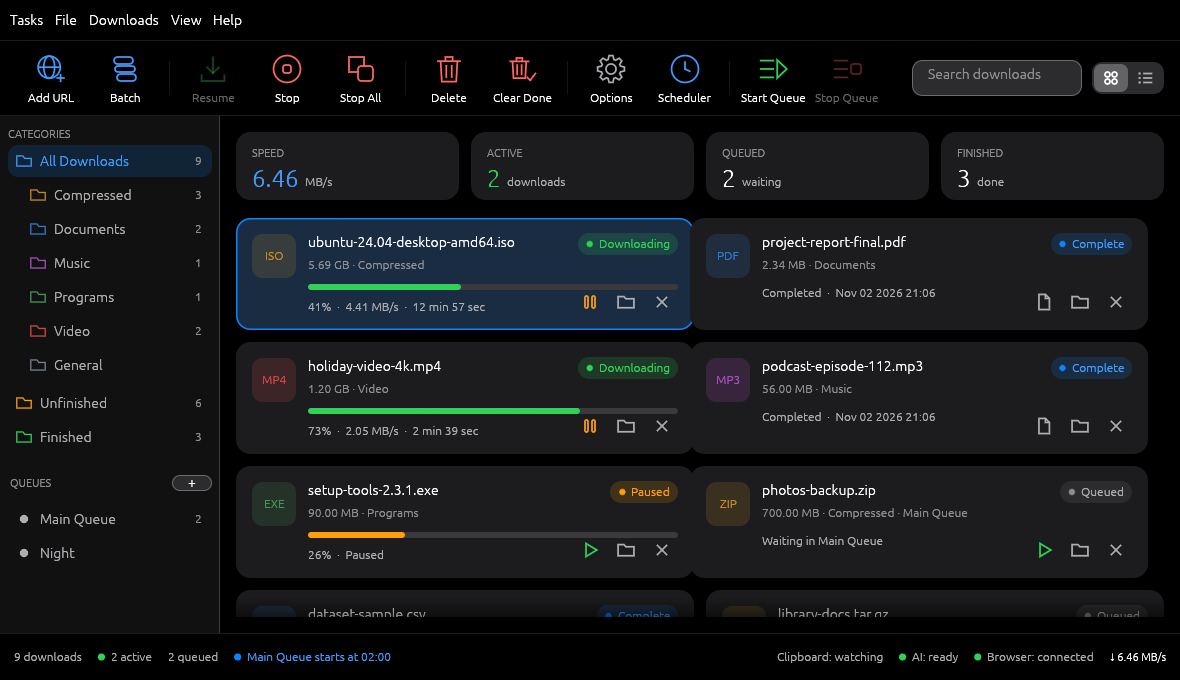
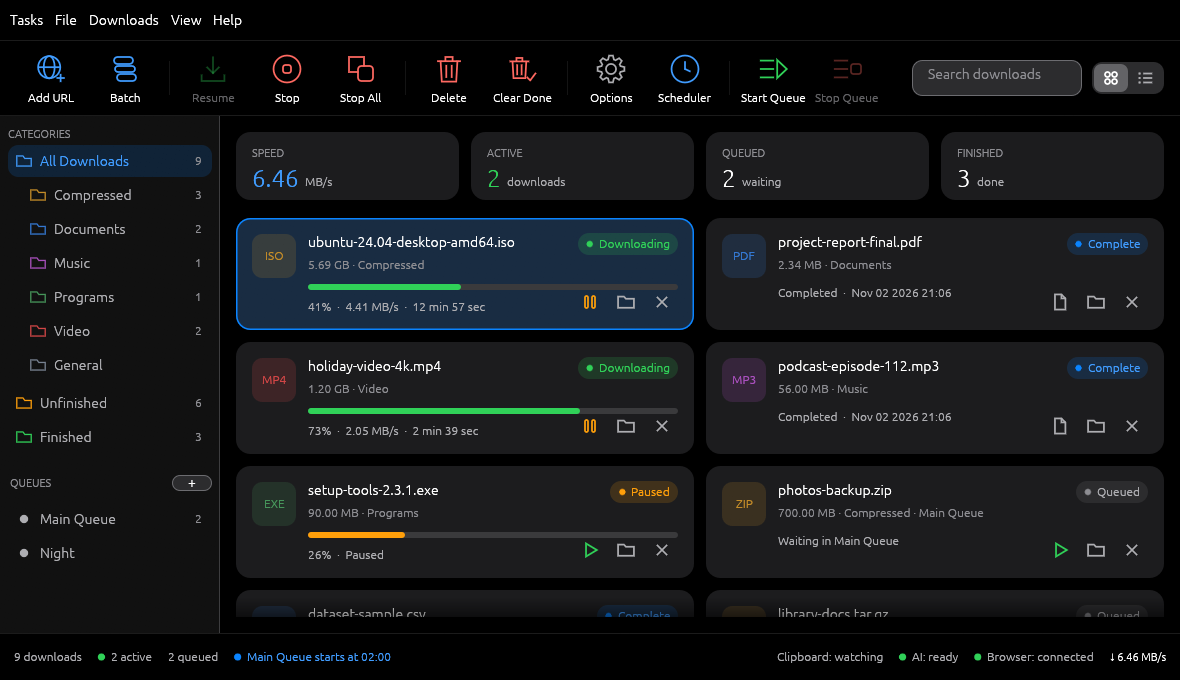
fix(ui): cards in a row had no gap between them
scope_builder also advanced the grid's layout cursor, so the next card started inside the last
one. The in-card progress bar and spinner now use new_child. A test paints the cards and checks
the gap between neighbours and between rows.

Changed region(s): [[0.5797, 0.3088, 0.8237, 0.8647], [0.8847, 0.3088, 1.0, 0.8647]]

diff --git a/source/src/app/cards.rs b/source/src/app/cards.rs
@@ -143,7 +143,9 @@ impl App {
         if with_bar {
             let bar = Rect::from_min_size(egui::pos2(left, rect.top() + PAD + 50.0), Vec2::new(right - left, 6.0));
             let color = if st == Status::Downloading { pal.green_ink } else { pal.orange_ink };
-            ui.scope_builder(egui::UiBuilder::new().max_rect(bar), |ui| capsule_bar(ui, egui::Id::unique(("card_bar", id)), item.progress(), color, 6.0, None));
+            // new_child, not scope_builder: a scope would also advance the grid's layout cursor.
+            let mut child = ui.new_child(egui::UiBuilder::new().max_rect(bar));
+            capsule_bar(&mut child, egui::Id::unique(("card_bar", id)), item.progress(), color, 6.0, None);
         }
 
         // The line under the bar: what is happening right now.
@@ -161,7 +163,8 @@ impl App {
         let line = truncated(&p, &line, FontId::proportional(d.caption), line_color, (right - left - button_row - 8.0).max(60.0));
         p.galley(egui::pos2(left, line_y), line, line_color);
         if st == Status::Connecting {
-            ui.scope_builder(egui::UiBuilder::new().max_rect(Rect::from_min_size(egui::pos2(left, rect.top() + PAD + 48.0), Vec2::splat(16.0))), |ui| spinner(ui, 14.0));
+            let mut child = ui.new_child(egui::UiBuilder::new().max_rect(Rect::from_min_size(egui::pos2(left, rect.top() + PAD + 48.0), Vec2::splat(16.0))));
+            spinner(&mut child, 14.0);
         }
 
         // Actions.
@@ -219,5 +222,44 @@ mod tests {
         assert_eq!(split_speed(0.0), ("0".into(), "B/s".into()));
         assert_eq!(split_speed(4_620_000.0), ("4.41".into(), "MB/s".into()));
         assert_eq!(split_speed(900.0), ("900".into(), "B/s".into()));
+    }
+
+    /// The rectangles of the painted cards (the shapes of exactly card size and card fill).
+    fn painted_cards(width: f32) -> Vec<Rect> {
+        let ctx = egui::Context::default();
+        let (mode, style) = (crate::theme::ThemeMode::Dark, crate::theme::ThemeStyle::Drishti);
+        let mut app = App::build(ctx.clone(), Launch { demo: true, ..Default::default() });
+        let input = egui::RawInput { screen_rect: Some(Rect::from_min_size(egui::Pos2::ZERO, Vec2::new(width, 900.0))), ..Default::default() };
+        let mut cards = Vec::new();
+        for _ in 0..3 {
+            let mut out = ctx.run_ui(input.clone(), |ui| {
+                crate::theme::apply(ui.ctx(), mode, style);
+                egui::CentralPanel::default().show(ui, |ui| app.cards_view(ui));
+            });
+            out.textures_delta.clear();
+            let fill = crate::theme::current(&ctx).card;
+            cards = out
+                .shapes
+                .iter()
+                .filter_map(|s| match &s.shape {
+                    egui::Shape::Rect(r) if r.fill == fill && (r.rect.height() - CARD_H).abs() < 0.01 => Some(r.rect),
+                    _ => None,
+                })
+                .collect();
+        }
+        cards
+    }
+
+    #[test]
+    fn cards_in_a_row_are_a_gap_apart() {
+        let cards = painted_cards(1000.0);
+        assert!(cards.len() >= 4, "the demo has nine downloads, got {} cards", cards.len());
+        let first_row: Vec<&Rect> = cards.iter().filter(|r| (r.top() - cards[0].top()).abs() < 0.5).collect();
+        assert_eq!(first_row.len(), 2, "1000 points fit two columns");
+        let gap = first_row[1].left() - first_row[0].right();
+        assert!((gap - CARD_GAP).abs() < 0.01, "the gap between neighbouring cards is {gap}, expected {CARD_GAP}");
+        // And the rows are a gap apart too.
+        let below = cards.iter().find(|r| r.top() > cards[0].top() + 1.0).unwrap();
+        assert!((below.top() - cards[0].bottom() - CARD_GAP).abs() < 0.01);
     }
 }
